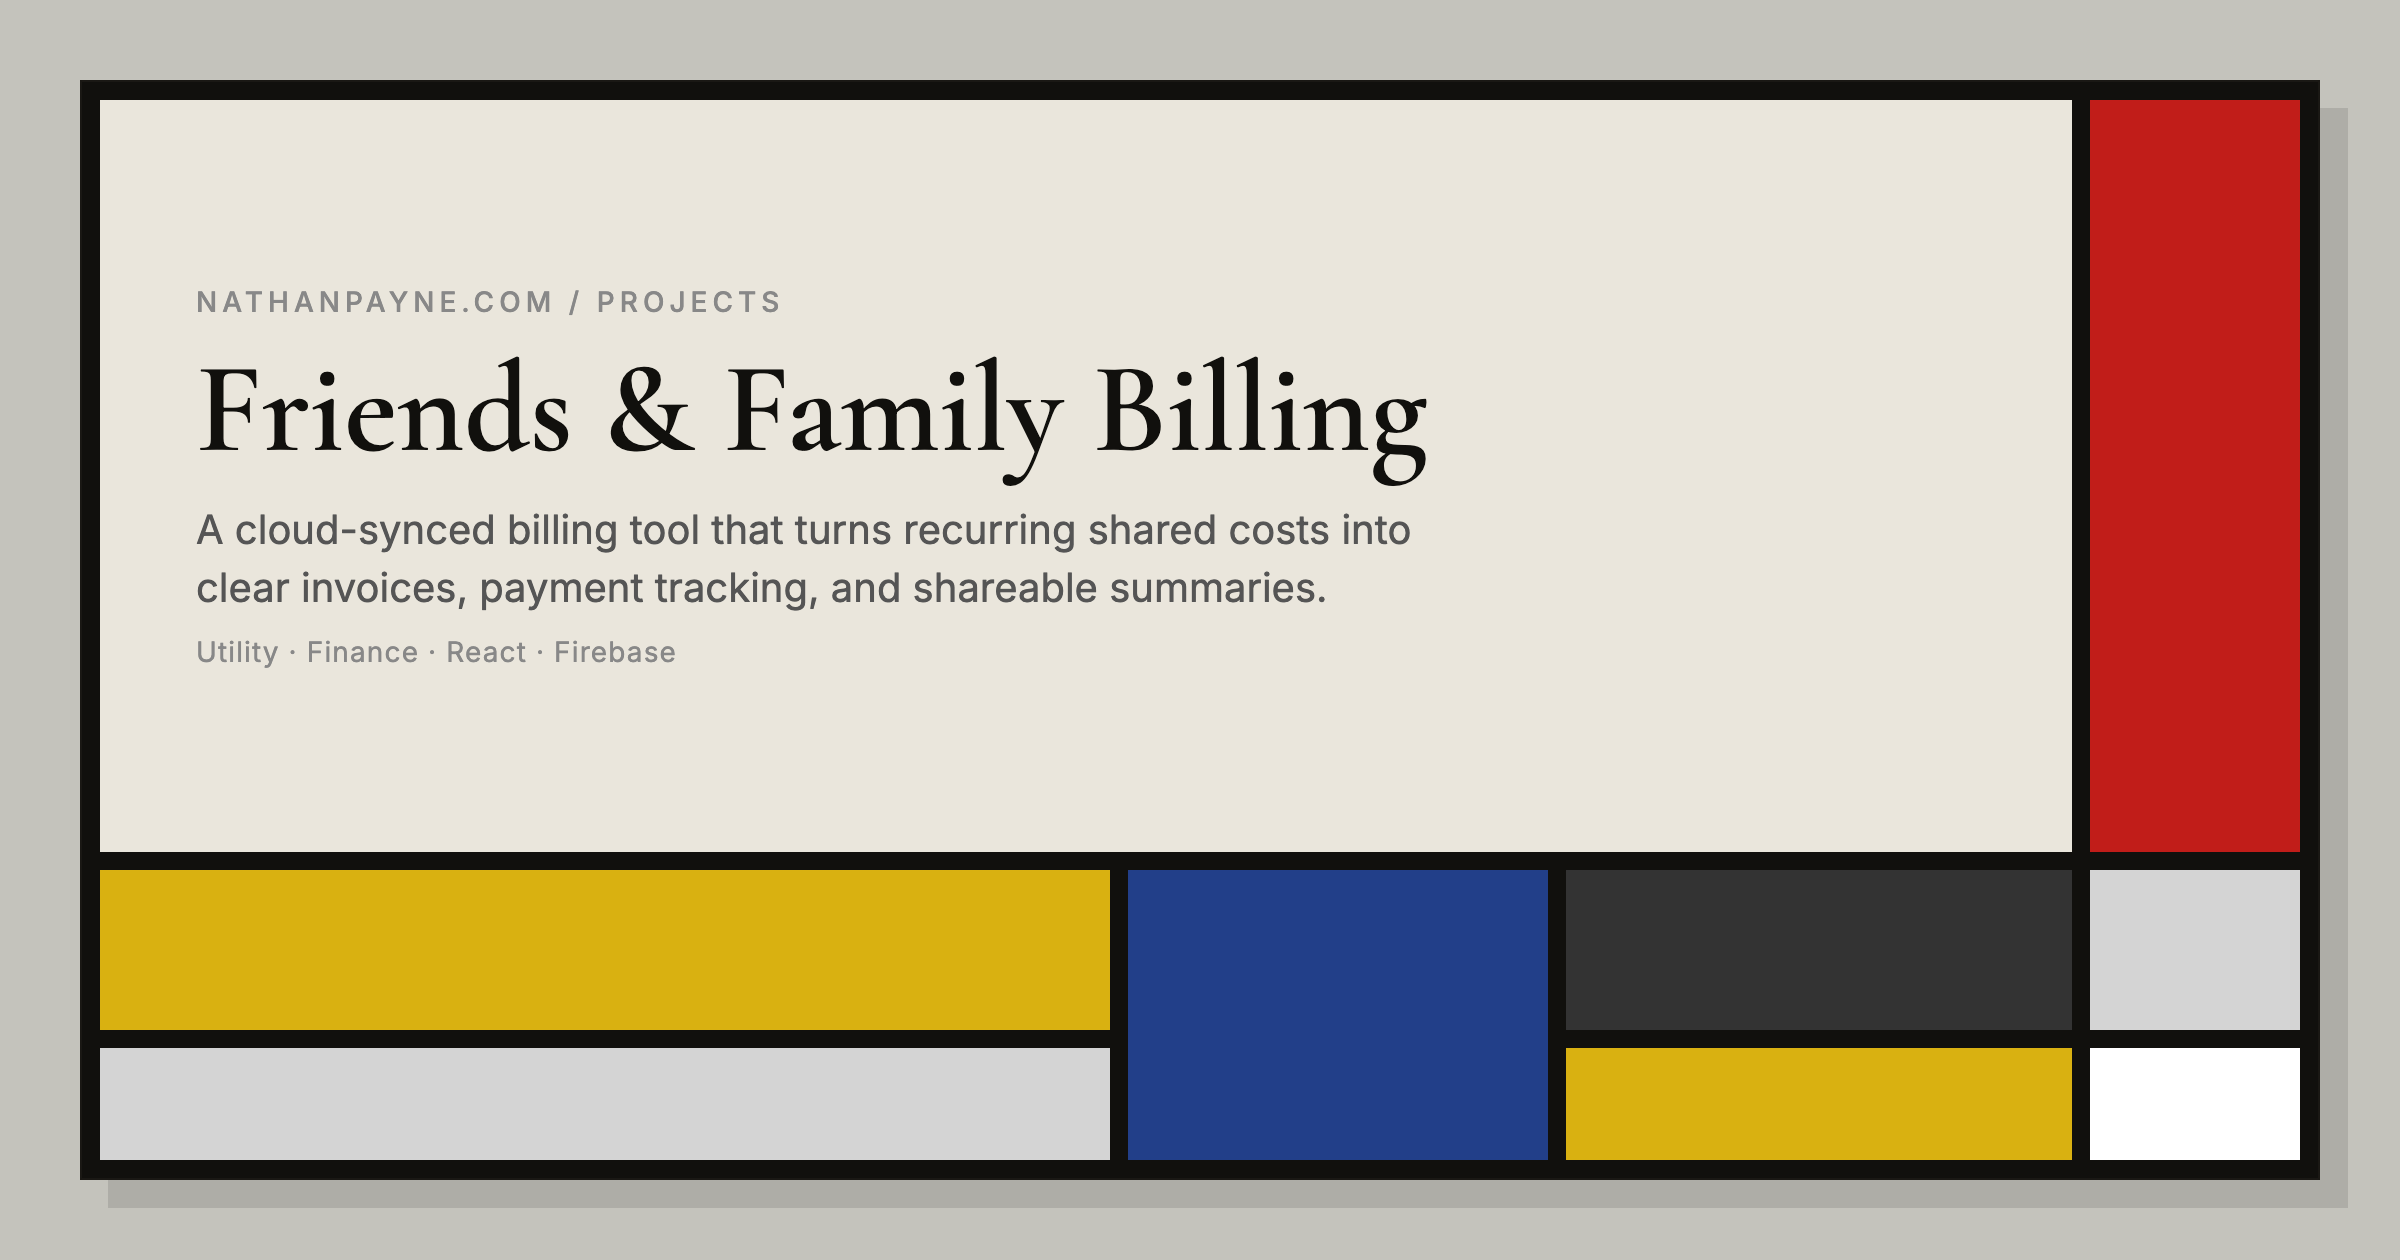
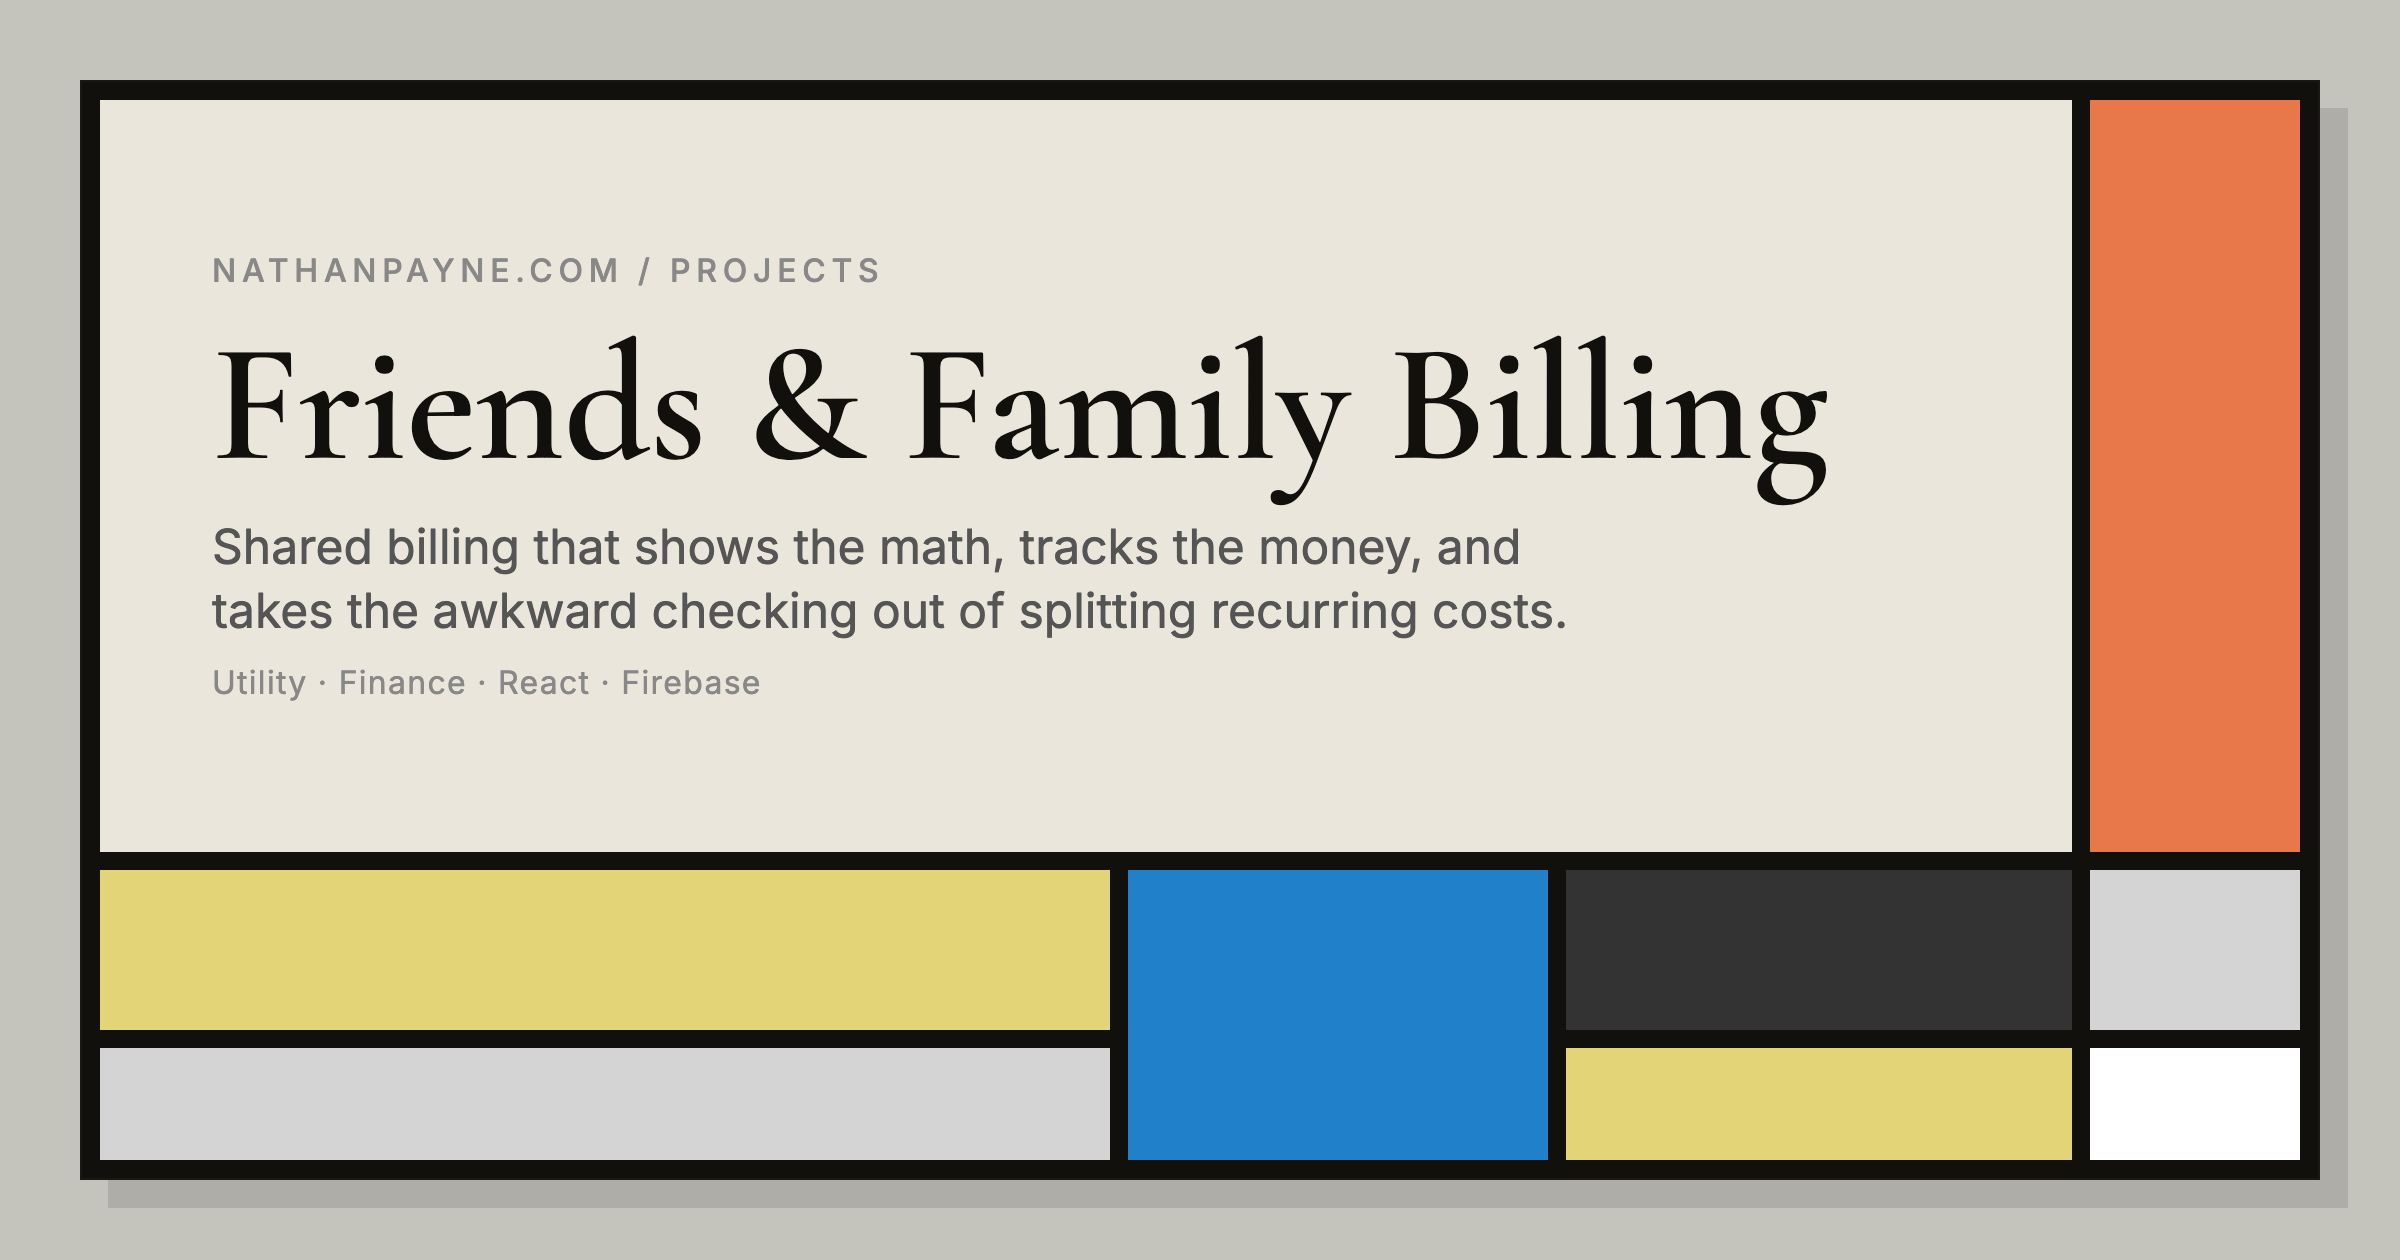
content(758): rebalance the FFB page around the product, not the debugging session (#882)
* content(758): rebalance the FFB page around the product, not the debugging session

The page opened as "an awkward household coordination problem" and ended as
a forensic account of one agentic debugging session. Two of four decision
cards, a shared-exhibit paragraph, both screenshots and the closing thesis
were all the rendering bug. Mergepath is where agent governance is the main
event; this page is where informal money is.

Cut "Rewrite the brief, rotate the agent" as a card and folded the method
change into the rendering card's evidence, where it belongs as how the fix
was obtained rather than as a peer decision about the product. That card
also lost a third of its words.

Added the exhibit the page most needed: the coordinator's expanded
household row on the live product, showing `$300.00 / month x 12 / 8
members = $450.00` per bill. The thesis is "show the arithmetic, not the
answer" and until now no image showed any arithmetic. It is Figure 1; the
editor screenshot is Figure 2 and the preview screenshot is gone.

Corrected a claim while checking it against the running app. The page said
the board's counts omit the overpaid state. They do not - there is a
headline OWED TO MEMBERS tile. What is missing is the filter chip, so the
state is summarized and unnavigable. Ledger C52 records the correction;
C53 records the exhibit's provenance and the crop.

Replaced the closing thesis. "An invariant that is prose is an invariant
[…]

diff --git a/plans/759/project-pages-ledger.md b/plans/759/project-pages-ledger.md
@@ -1511,6 +1511,26 @@ Two consequences beyond the opening sentence, both of which the page carried:
 
 The correction also supplies something the page had been missing: **the product is called Friends & Family Billing because the group is family and friends across households.** The name encodes the fact the page got wrong, and the opening now says so.
 
+### C52—the settlement board surfaces the overpaid state as a stat, and cannot filter to it
+
+**SPLIT, and corrected on the live product.** The row carries two verdicts: the page's "counts omit the state" is **WRONG**, and "no `Overpaid` filter chip" is **SUPPORTED**. §C's earlier row and the page both said the board's "counts omit the state." Read against the running application on 2026-08-30 (coordinator session, 2026 billing year), that is too strong in one direction and right in the other. The board **does** carry a headline tile, `OWED TO MEMBERS` / *Unresolved credits*, so the existence of a debt to a member is visible at a glance. What it has no way to do is **find** one: the filter row renders exactly `All`, `Outstanding`, `Partial`, `Settled`, plus a `Linked Groups` count—no `Overpaid` chip—so an overpaid household is reachable only by scrolling `All`.
+
+The corrected claim, now on the page: the state is modelled, summarized, and unnavigable. The share page's half of the finding is unchanged—it never imports the status badge, so the member sees `settled` or an amount due.
+
+**Method note.** This row is observation of a running instance, not a repository read, so it carries no pin. It is the same class of evidence as §A25's live API reads and is labelled here for the same reason.
+
+### C53—the household exhibit's provenance, and what was deliberately not captured
+
+**EXTERNALLY SOURCED (§M6), and recorded because the page publishes it.** `friends-and-family-billing-household.png` is a crop of the live coordinator dashboard, captured 2026-08-30 from the owner's authenticated session with the owner's explicit approval to use real data.
+
+**The crop is bounded to the author's own rows, and the first attempt was not.** As published it stops at `Total (Nathan Payne)`: three bill derivations and one subtotal, all the author's own figures. Nothing else appears—no other member's name, photograph, annual charge, paid amount or settlement status, and not the combined household total, which is partly another person's money.
+
+**The first version of this crop was wider, and this row described it.** It ran to the household block and published the linked member's name, photograph, annual charge, paid amount and settlement status, and this row classified that as "the author's own financial information." It is not: owner approval covers the owner's data and does not reach another person's finances. Codex raised it as a P1 and CodeRabbit as a Major, independently, on `#882`; the asset and its caption were redacted and this paragraph is the third surface, corrected after Codex noticed the row still described the old crop.
+
+**What is deliberately not published.** The full settlement board names four other members beside each one's annual total, paid total and settlement status, with profile photographs. That board-level capture was taken and is not published. **Note that the page's hero image `friends-and-family-billing-hero-v2.png` predates this row and does publish three of them**—the owner has been told and has kept it; that is recorded here so the audit trail does not read as if the boundary were clean.
+
+**Three exhibits the page wanted and does not have.** The recipient share view, the question/resolution flow, and the overpaid state were all scoped and are all unavailable at this pin. The first two require a live share token, which is a bearer credential—the browser tooling refused to return one, correctly. The third does not exist to photograph: every household on the instance reads `Settled` and `OWED TO MEMBERS` reads `None`, so no overpaid state is present in production data. Capturing any of the three needs either a freshly minted share link (a production write, the owner's call) or an `__E2E_SHARE__` injection seam in `ShareView.jsx`, which the repository does not have—its E2E harness covers auth and billing state only, and the share view loads through `getDoc` on `publicShares` and a `resolveShareToken` Cloud Function.
+
 ---
 
 ## §D `matchline`
@@ -3231,15 +3251,15 @@ Reproduce with `git rev-list --count "$(git rev-list -1 --before=2026-04-14 orig
 |---|---|---|---|---|---|---|
 | §A `device-source-of-truth` | 26 | 10 | 4 | 6 | 1 | 50 † |
 | §B `five-across` | 17 | 4 | 0 | 12 | 3 | 36 |
-| §C `friends-and-family-billing` | 20 | 12 | 3 | 16 | 0 | 51 |
+| §C `friends-and-family-billing` | 20 | 12 | 3 | 17 | 1 | 53 |
 | §D `matchline` | 7 | 0 | 3 | 2 | 0 | 12 |
 | §E `mergepath` | 29 | 16 | 0 | 17 | 0 | 62 |
 | §F `override` | 6 | 7 | 0 | 1 | 0 | 14 |
 | §G `swipe-watch` | 10 | 6 | 1 | 1 | 0 | 18 |
 | §H cross-page | 3 | 5 | 0 | 2 | 0 | 10 |
-| **Total** | **118** | **60** | **11** | **57** | **4** | **253** † |
+| **Total** | **118** | **60** | **11** | **58** | **5** | **255** † |
 
-† **The `Rows` column counts rows; §A's verdict columns do not sum to it.** §A holds **50 rows of which 47 carry a verdict**: `A27` is a method finding (on this audit's machine, `git grep -E` silently ignored `\b`—a platform-dependent trap, see the row), `A44` is the cross-surface sweep, and `A48` is the decision-record adjudication AC 5 needs. None records a verdict, and forcing one on them would be worse than the gap. So §A reads 26+10+4+6+1 = **47 verdicts across 50 rows**, and the corpus is **250 verdicts across 253 rows**. Every other section sums exactly. An earlier revision of this footnote said 49 rows against 46 verdicts, which was true before `A49` and `A50` were added and stale the moment they were—caught independently by both reviewers on `#873`. A tally corrected in one place goes stale the next time the thing it counts changes; recount from the file.
+† **The `Rows` column counts rows; §A's verdict columns do not sum to it.** §A holds **50 rows of which 47 carry a verdict**: `A27` is a method finding (on this audit's machine, `git grep -E` silently ignored `\b`—a platform-dependent trap, see the row), `A44` is the cross-surface sweep, and `A48` is the decision-record adjudication AC 5 needs. None records a verdict, and forcing one on them would be worse than the gap. So §A reads 26+10+4+6+1 = **47 verdicts across 50 rows**, and the corpus is **252 verdicts across 255 rows**. Every other section sums exactly. An earlier revision of this footnote said 49 rows against 46 verdicts, which was true before `A49` and `A50` were added and stale the moment they were—caught independently by both reviewers on `#873`. A tally corrected in one place goes stale the next time the thing it counts changes; recount from the file. It went stale again on `#882`, which added `C52` and `C53` without touching this table—caught by Codex.
 
 A **SPLIT** row is counted once, in its own column, not split across the other three; the row text names which half carries which verdict. WRONG rows count each restated instance separately, because each is a separate edit: §E10 and §E11 are one number stated twice, §G1–G3 are one number stated three times, and §H1–H2 re-count the Override and two-strike defects at the cross-page level where the fix has to be coordinated across files. Deduplicated to distinct underlying facts, the WRONG count is 37; §C51's household-framing correction is the new fact added after the earlier count of 36.
 
